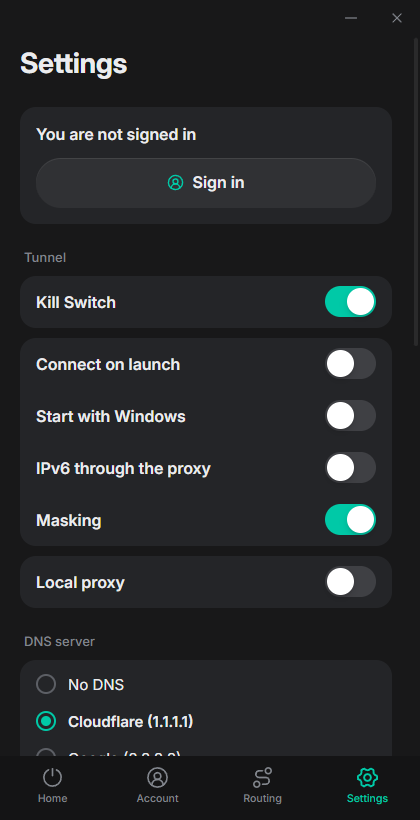
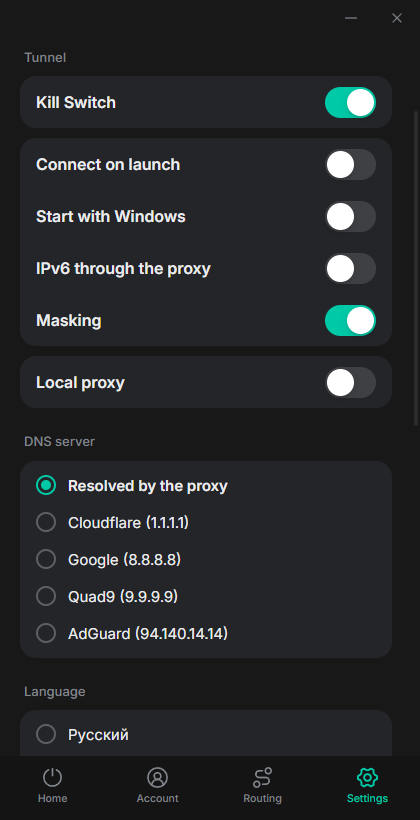
Proxya Desktop 1.1.0: stronger masking, VPN coexistence, macOS disk image

diff --git a/README.md b/README.md
@@ -34,7 +34,7 @@ account is optional when adding your own proxies.
   UDP availability, and view the proxy's exit location.
 - **Proxya account:** access active datacenter, ISP and mobile proxy orders
   from the desktop app.
-- **Connection settings:** DNS over HTTPS, optional handshake masking,
+- **Connection settings:** DNS over HTTPS, handshake masking (on by default),
   automatic connection on launch and a Windows kill switch.
 - **Interface languages:** English, Russian and Chinese, with no restart
   required when switching languages.
@@ -50,8 +50,8 @@ Download the latest version from
 
 | Platform | Download | Installation guide |
 | --- | --- | --- |
-| Windows x64 | `Proxya_1.0.0_x64-setup.exe` | [Windows installation](docs/windows-installation.md) |
-| macOS Apple Silicon | `Proxya-macos-arm64.tar.gz` | [macOS installation](docs/mac-installation.md), [Russian guide](docs/mac-установка.md) |
+| Windows x64 | `Proxya_1.1.0_x64-setup.exe` | [Windows installation](docs/windows-installation.md) |
+| macOS Apple Silicon | `Proxya-macos-arm64.dmg` or `Proxya-macos-arm64.tar.gz` | [macOS installation](docs/mac-installation.md), [Russian guide](docs/mac-установка.md) |
 
 SHA-256 checksums are included with each release. The Windows installer is
 not Authenticode signed. The macOS app is ad-hoc signed and is not notarized;
@@ -99,9 +99,11 @@ provide UDP tunneling.
 
 ## DNS and connection protection
 
-Selecting Cloudflare, Google, Quad9 or AdGuard enables DNS over HTTPS through
-the proxy. With **No DNS**, the proxy resolves destination names. This option
-sends the destination name in the proxy handshake.
+With **Resolved by the proxy**, the default, the proxy resolves destination
+names. The name travels in the proxy handshake, and masking splits it so that
+no single packet carries it whole. Selecting Cloudflare, Google, Quad9 or
+AdGuard enables DNS over HTTPS through the proxy instead. That adds a lookup
+through the proxy for every new site, about 0.6 s in our tests.
 
 The Windows kill switch blocks traffic outside the permitted tunnel routes
 while it is active. Proxy passwords and account sessions are encrypted on disk
@@ -109,17 +111,28 @@ using a key held in Windows Credential Manager or macOS Keychain.
 
 ### Handshake masking
 
-Optional masking splits the proxy handshake into TCP segments with a short
-pause. This can improve connectivity on networks that filter individual
-packets. Masking does not encrypt the proxy connection or prevent inspection
-of a reassembled stream.
+Masking is on by default. The connection to a SOCKS5 or HTTP proxy is not
+encrypted, and some networks read two things from it: the destination address
+in the proxy handshake, and the site name (TLS server name) in the first packet
+inside the stream. Masking splits both across two TCP segments with a random
+10–30 ms pause, at a random point inside the address or name, so no single
+packet carries either of them whole.
 
-Recorded connection test using the same proxy and network link:
+The greeting, sign-in and request are sent together without waiting for each
+reply, so a connection opens about 0.4 s faster than without masking. Proxies
+that need the step-by-step exchange are detected automatically.
 
-| | Connections that completed |
-| --- | --- |
-| Handshake in one packet | 1 of 6 |
-| Handshake split in two, 10 ms apart | 6 of 6 |
+Masking does not encrypt the proxy connection or prevent inspection of a
+reassembled stream.
+
+Recorded test on a network that filters individual packets, same proxies and
+link:
+
+| Destination | Without masking | With masking |
+| --- | --- | --- |
+| Telegram data centers, ISP proxy | 0 of 12 | 12 of 12 |
+| Instagram over TLS, ISP proxy | 0 of 4 | 4 of 4 |
+| Telegram and Instagram, residential proxy | 0 of 9 | 20 of 20 |
 
 Results describe that test and depend on the network and filtering method.
 
@@ -128,8 +141,12 @@ Results describe that test and depend on the network and filtering method.
 - The kill switch is available on Windows. It is not available on macOS.
 - The macOS build supports Apple Silicon. Intel Macs are not supported.
 - IPv6 is disabled by default. Enable it only if your proxy supports IPv6.
-- Another VPN may conflict with tunnel routing or DNS. System proxy mode is
-  available for applications that need to run alongside a VPN.
+- Another VPN may take precedence over the tunnel. On Windows, Proxya checks
+  which adapter carries the traffic after connecting, and if another VPN does,
+  it disconnects with an explanation instead of showing a connection that is
+  not in effect. Beside another VPN, use system proxy mode: with **Only the
+  chosen** apps, the selected apps use the proxy and the rest stay on the other
+  VPN.
 - Reachable destinations and ports depend on your proxy provider's policies.
 
 ## Documentation and support

diff --git a/RELEASE_NOTES_v1.1.0.md b/RELEASE_NOTES_v1.1.0.md
@@ -1,0 +1,57 @@
+# Proxya Desktop 1.1.0
+
+## What's new
+
+- **Stronger masking.** Besides the address in the proxy handshake, masking now
+  splits the site name inside the stream (TLS server name or HTTP `Host`), at a
+  random point and with a random pause. On a network that filters individual
+  packets, Telegram and Instagram through the same proxies went from 0 of 25 to
+  36 of 36 connections.
+- **Faster connections.** The proxy handshake is sent in one go, about 0.4 s
+  faster per connection with masking on.
+- **Beside another VPN.** System proxy mode no longer stalls direct connections
+  next to another VPN. On Windows, tunnel mode detects another VPN taking the
+  traffic and disconnects with an explanation instead of showing a connection
+  that is not in effect.
+- **Languages.** Notifications, error messages, the tray menu and the Google
+  sign-in page follow the interface language.
+- **Interface.** The app list refreshes while open, the proxy actions menu is no
+  longer clipped, radio buttons and short errors are centred.
+- Removed the "Russian sites direct" routing option. "No DNS" is renamed
+  "Resolved by the proxy" and remains the default.
+- macOS: a `.dmg` is published alongside the `.tar.gz`.
+
+## Downloads
+
+| Platform | Asset | Installation guide |
+| --- | --- | --- |
+| Windows x64 | `Proxya_1.1.0_x64-setup.exe` | [Windows guide](https://github.com/ProxyaAnty/Proxya-Desktop/blob/main/docs/windows-installation.md) |
+| macOS Apple Silicon | `Proxya-macos-arm64.dmg` or `Proxya-macos-arm64.tar.gz` | [macOS guide](https://github.com/ProxyaAnty/Proxya-Desktop/blob/main/docs/mac-installation.md), [Russian guide](https://github.com/ProxyaAnty/Proxya-Desktop/blob/main/docs/mac-%D1%83%D1%81%D1%82%D0%B0%D0%BD%D0%BE%D0%B2%D0%BA%D0%B0.md) |
+
+The Windows installer is not Authenticode signed. The macOS app is ad-hoc
+signed and is not notarized. Follow the relevant installation guide if the
+operating system blocks the download. Installing over 1.0.0 keeps your proxies
+and settings.
+
+## Verify your download
+
+Compare the download's SHA-256 with `SHA256SUMS.txt` attached to this release.
+
+Windows PowerShell:
+
+```powershell
+Get-FileHash .\Proxya_1.1.0_x64-setup.exe -Algorithm SHA256
+```
+
+macOS Terminal:
+
+```bash
+shasum -a 256 Proxya-macos-arm64.dmg
+```
+
+## Platform limitations
+
+- The kill switch is available on Windows only.
+- The macOS build supports Apple Silicon. Intel Macs are not supported.
+- IPv6 is disabled by default and requires a proxy with IPv6 support.
+- Beside another VPN, use system proxy mode.

diff --git a/CHANGELOG.md b/CHANGELOG.md
@@ -1,5 +1,28 @@
 # Changelog
 
+## 1.1.0
+
+- Masking now also splits the site name inside the stream (the TLS server name,
+  or the HTTP `Host` header), and splits the proxy handshake at a random point
+  inside the address with a random 10–30 ms pause.
+- The proxy handshake is sent in one go: connections through a masked proxy
+  open about 0.4 s faster. Proxies that need the step-by-step exchange are
+  detected automatically.
+- System proxy mode works beside another VPN: direct connections resolve names
+  through the system resolver instead of timing out.
+- On Windows, tunnel mode checks whether another VPN takes the traffic and, if
+  so, disconnects with an explanation and releases the kill switch.
+- Removed the "Russian sites direct" routing option.
+- "No DNS" is renamed "Resolved by the proxy" and remains the default.
+- Notifications, error messages, the tray menu and the Google sign-in page
+  follow the interface language.
+- The app list refreshes while it is open, so newly started apps appear on
+  their own.
+- The proxy actions menu is no longer clipped by the proxy list. Radio buttons
+  and short error messages are centred.
+- Build machine paths are no longer embedded in the binaries.
+- macOS: a disk image (`.dmg`) is published alongside the archive.
+
 ## 1.0.0
 
 Initial public release of Proxya Desktop for Windows x64 and macOS Apple Silicon.

diff --git a/docs/windows-installation.md b/docs/windows-installation.md
@@ -2,7 +2,7 @@
 
 ## Install
 
-1. Download `Proxya_1.0.0_x64-setup.exe` from
+1. Download `Proxya_1.1.0_x64-setup.exe` from
    [Releases](https://github.com/ProxyaAnty/Proxya-Desktop/releases/latest) and
    verify its SHA-256 against the value published with the release.
 2. Run the installer. It installs for the whole machine, into
@@ -30,8 +30,15 @@ filters, so the machine is never left without a network.
 
 ## Running beside another VPN
 
-Two tunnels with strict routing on one machine break each other's DNS. That is
-expected rather than a bug. Use system proxy mode beside another VPN.
+Two tunnels on one machine compete for the routes, and the one with narrower
+routes wins. If another VPN takes the traffic, Proxya disconnects the tunnel
+with an explanation and releases the kill switch, rather than showing a
+connection that is not in effect.
+
+Beside another VPN, use system proxy mode. Direct connections then resolve
+names through Windows itself, so they keep working through the other VPN. With
+**Only the chosen** apps, the selected apps use the proxy and everything else
+stays on the other VPN.
 
 ## Where data lives
 

diff --git a/docs/mac-installation.md b/docs/mac-installation.md
@@ -6,10 +6,11 @@ or that the application is damaged after download.
 
 ## Install
 
-1. Download `Proxya-macos-arm64.tar.gz` from
+1. Download `Proxya-macos-arm64.dmg` (or `Proxya-macos-arm64.tar.gz`) from
    [Releases](https://github.com/ProxyaAnty/Proxya-Desktop/releases/latest) and
    verify its SHA-256 against the value published with the release.
-2. Extract it and move **Proxya** into **Applications**.
+2. Open the disk image (or extract the archive) and move **Proxya** into
+   **Applications**.
 3. In Terminal, once:
 
    ```bash
